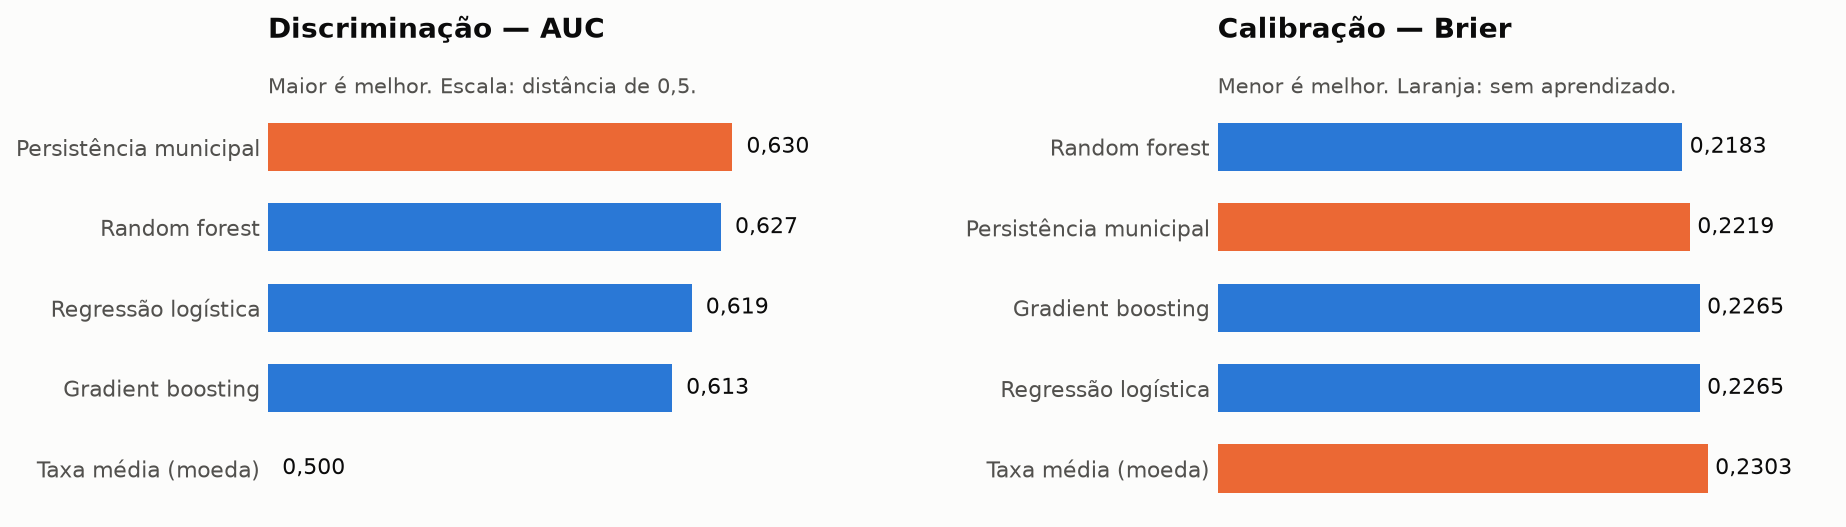
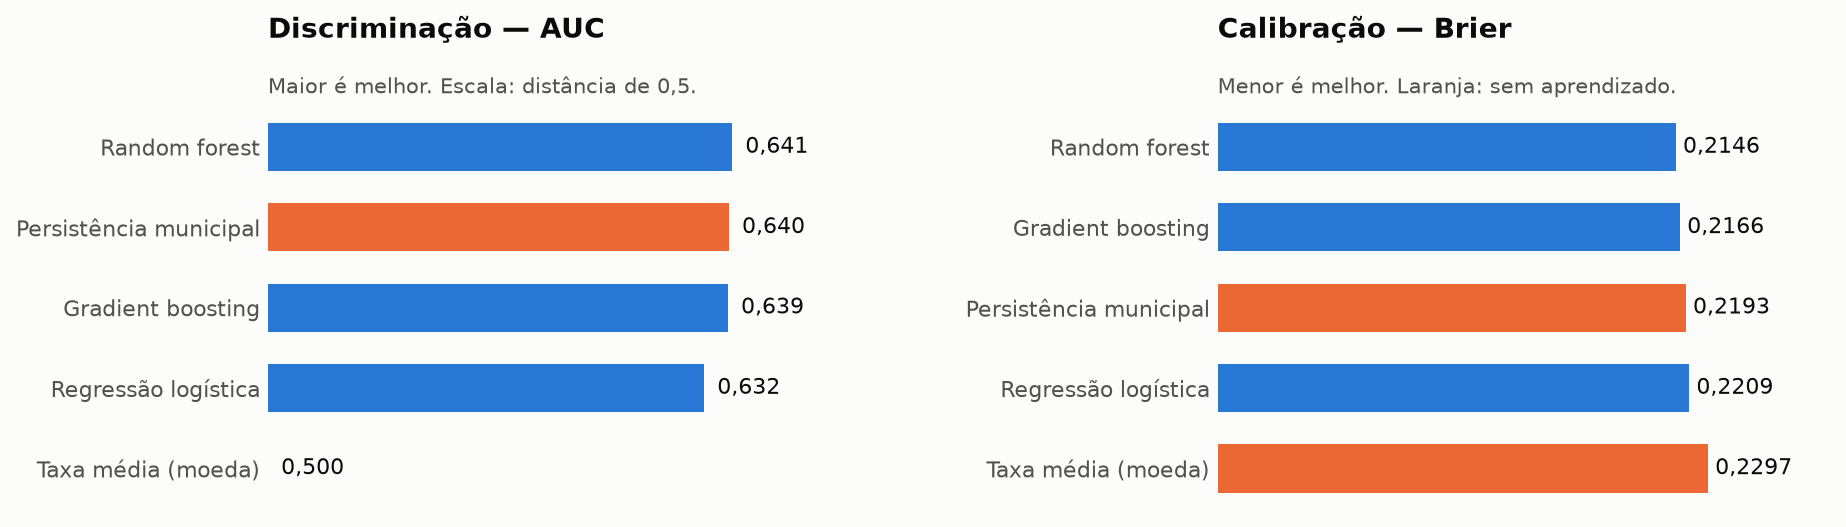
feat(modeling): acrescenta random forest, que passa a ser o melhor modelo
Floresta com 200 arvores, profundidade limitada a 18 e folha minima de 100. Usa
preprocessador proprio: imputacao e one-hot, sem padronizacao. Diferente do
boosting em histograma, a floresta nao trata nulo nativamente nem divide
categorica por conjunto, entao codigo ordinal imporia ordem falsa entre estados.

Escolhida por atacar o erro pelo caminho oposto ao do boosting — variancia em vez
de vies. Os dois chegarem ao mesmo patamar e evidencia de que o teto e dos dados.

Resultado: AUC 0,6407 contra 0,6397 da persistencia municipal. Tecnicamente o
melhor, mas ganhar um milesimo de um baseline que nao aprende nada confirma que
o aprendizado quase nao acrescenta discriminacao. O ganho real e em calibracao:
Brier de 0,2193 para 0,2146 e log loss de 0,6282 para 0,6170.

Trata tambem o SHAP da floresta, que devolve um eixo por classe.

diff --git a/README.md b/README.md
@@ -310,7 +310,12 @@ Dois modelos, e dois baselines que existem para dar sentido aos números.
 | **Taxa média** | O piso absoluto. AUC 0,5 por construção. |
 | **Persistência municipal** | Prevê, para cada aluno, a taxa do seu município no ano anterior. Não usa aprendizado nenhum — só uma coluna que já está na tabela. **É contra este que o modelo precisa ser comparado.** |
 | **Regressão logística** | Referência linear. Imputação por mediana, padronização e one-hot, tudo dentro do `Pipeline`. |
-| **Gradient boosting em histograma** | Trata valor faltante nativamente e divide categóricas por conjunto, sem supor ordem. Regularizado com L2 e parada antecipada. |
+| **Random forest** | 200 árvores fundas e independentes, depois a média. Ataca variância. Precisa de imputação e one-hot, não de escala. |
+| **Gradient boosting em histograma** | Árvores rasas encadeadas, cada uma corrigindo a anterior. Ataca viés. Trata valor faltante nativamente e divide categóricas por conjunto. |
+
+Floresta e boosting foram escolhidos por atacarem o erro por caminhos opostos —
+variância contra viés. Se os dois chegam ao mesmo patamar, é evidência de que o
+teto é dos dados, não do algoritmo.
 
 O pré-processamento está **dentro** do `Pipeline`, não antes dele. Isso não é
 estilo: um imputador ajustado fora aprenderia a mediana do conjunto inteiro,
@@ -343,32 +348,42 @@ conhecer um colega é quase conhecer a resposta.
 
 | modelo | AUC | Brier | log loss |
 |---|---:|---:|---:|
-| Persistência municipal | **0,6397** | 0,2193 | 0,6282 |
-| Gradient boosting | 0,6394 | **0,2166** | **0,6211** |
+| **Random forest** | **0,6407** | **0,2146** | **0,6170** |
+| Persistência municipal | 0,6397 | 0,2193 | 0,6282 |
+| Gradient boosting | 0,6394 | 0,2166 | 0,6211 |
 | Regressão logística | 0,6322 | 0,2209 | 0,6319 |
 | Taxa média | 0,5000 | 0,2297 | 0,6521 |
 
-**O modelo não supera a persistência territorial em discriminação.** Empata:
-0,6394 contra 0,6397. Em termos de ordenar alunos por risco, o gradient boosting
-não aprendeu nada além do que já estava na coluna "taxa do município no ano
-passado".
+**A floresta supera a persistência territorial — por 0,001 de AUC.** Tecnicamente
+é o melhor modelo; na prática, ganhar um milésimo de um baseline que não aprende
+nada significa que **o aprendizado de máquina quase não acrescenta discriminação
+aqui**. O boosting empata (0,6394) e a logística perde. Três algoritmos
+diferentes chegando ao mesmo patamar é o que se espera quando o limite é dos
+dados, não do método.
 
-**Onde ele ganha é em calibração.** Brier 0,2166 contra 0,2193 e log loss 0,6211
-contra 0,6282. As probabilidades do modelo são mais confiáveis, mesmo ordenando
-igual — o que importa se a saída alimentar uma decisão de alocação de recurso,
-e não apenas um ranking.
+**O ganho real é em calibração.** A floresta leva o Brier de 0,2193 para 0,2146
+e o log loss de 0,6282 para 0,6170 — uma melhora de 2,1% e 1,8% sobre a
+persistência, ordens de grandeza acima do ganho em AUC. As probabilidades são
+mais confiáveis mesmo ordenando quase igual, o que importa se a saída alimentar
+alocação de recurso em vez de só um ranking.
 
 **O custo de generalizar entre anos é visível:** dentro de 2024 a validação
-cruzada dá AUC 0,6688; em 2025 cai para 0,6394. Essa diferença de 0,03 é a
-distância entre prever o presente e prever o futuro, e só aparece porque a
-divisão é temporal. Uma divisão aleatória teria escondido.
+cruzada dá AUC entre 0,662 e 0,669 para os três modelos; em 2025 todos caem para
+a faixa de 0,632 a 0,641. Essa perda de cerca de 0,03 é a distância entre prever
+o presente e prever o futuro, e só aparece porque a divisão é temporal. Uma
+divisão aleatória a teria escondido.
 
-**A importância confirma o diagnóstico.** Por permutação, `mun_taxa_rede_t1`
-domina (queda de 0,064 no AUC ao ser embaralhada), seguida de longe por
-`sigla_uf` (0,017). Todo o resto fica abaixo de 0,003 — inclusive o INSE. O SHAP
-distribui um pouco mais o crédito (região, taxa da UF, porte da escola), mas a
-conclusão é a mesma: **o modelo é, essencialmente, um mapa de onde a criança
+**A importância confirma o diagnóstico.** Na floresta, `mun_taxa_rede_t1` lidera
+a permutação (0,0120), seguida de `mun_meta_ano` (0,0058) e
+`mun_taxa_publica_t1` (0,0041) — todas medidas do próprio território no passado.
+O SHAP ordena igual. O INSE e as taxas de rendimento aparecem, mas com
+contribuição marginal. **O modelo é, essencialmente, um mapa de onde a criança
 mora.**
+
+Vale notar o contraste entre os dois modelos de árvore: o boosting concentrou
+quase toda a importância numa variável (0,064 em `mun_taxa_rede_t1`), enquanto a
+floresta distribuiu (0,012 no topo). Mesma performance, leituras diferentes — a
+floresta é mais informativa para explicar o fenômeno.
 
 ## Insights encontrados
 

diff --git a/reports/MODELAGEM.md b/reports/MODELAGEM.md
@@ -1,33 +1,33 @@
 # Modelagem — predição de alfabetização no grão do aluno
 
-Treino em 2024 (59,647 alunos, 1,371 escolas), teste em 2025 (59,444 alunos). Divisão temporal, validação cruzada agrupada por escola, tudo ponderado pelo peso amostral.
+Treino em 2024 (1,851,852 alunos, 42,328 escolas), teste em 2025 (1,966,095 alunos). Divisão temporal, validação cruzada agrupada por escola, tudo ponderado pelo peso amostral.
 
 ## Resultados
 
 | modelo | auc_roc | precisao_media | brier | log_loss | taxa_base |
 |---|---:|---:|---:|---:|---:|
-| persistencia_municipal | 0,6302 | 0,7618 | 0,2219 | 0,6335 | 0,6553 |
-| floresta | 0,6270 | 0,7584 | 0,2183 | 0,6259 | 0,6553 |
-| logistica | 0,6188 | 0,7500 | 0,2265 | 0,6452 | 0,6553 |
-| boosting | 0,6133 | 0,7485 | 0,2265 | 0,6446 | 0,6553 |
-| taxa_base | 0,5000 | 0,6553 | 0,2303 | 0,6534 | 0,6553 |
+| floresta | 0,6407 | 0,7727 | 0,2146 | 0,6170 | 0,6565 |
+| persistencia_municipal | 0,6397 | 0,7724 | 0,2193 | 0,6282 | 0,6565 |
+| boosting | 0,6394 | 0,7709 | 0,2166 | 0,6211 | 0,6565 |
+| logistica | 0,6322 | 0,7631 | 0,2209 | 0,6319 | 0,6565 |
+| taxa_base | 0,5000 | 0,6565 | 0,2297 | 0,6521 | 0,6565 |
 
 ### Validação cruzada dentro do treino
 
 | modelo | AUC média | desvio entre folds |
 |---|---:|---:|
-| logistica | 0.6468 | 0.0069 |
-| floresta | 0.6532 | 0.0053 |
-| boosting | 0.6386 | 0.0045 |
+| logistica | 0.6620 | 0.0013 |
+| floresta | 0.6670 | 0.0011 |
+| boosting | 0.6688 | 0.0013 |
 
 ### Ganho sobre a persistência territorial
 
 O baseline que importa não é a moeda: é prever, para cada aluno, a taxa do seu município no ano anterior. Ele não usa aprendizado nenhum.
 
 - **taxa_base**: -100.0% de discriminação sobre a persistência
-- **logistica**: -8.8% de discriminação sobre a persistência
-- **floresta**: -2.5% de discriminação sobre a persistência
-- **boosting**: -13.0% de discriminação sobre a persistência
+- **logistica**: -5.4% de discriminação sobre a persistência
+- **floresta**: +0.7% de discriminação sobre a persistência
+- **boosting**: -0.2% de discriminação sobre a persistência
 
 ## Interpretabilidade
 
@@ -35,18 +35,35 @@ O baseline que importa não é a moeda: é prever, para cada aluno, a taxa do se
 
 | feature | queda_de_auc |
 |---|---:|
-| mun_taxa_rede_t1 | 0,0342 |
-| sigla_uf | 0,0150 |
-| mun_inse_alunos | 0,0041 |
-| mun_taxa_publica_t1 | 0,0040 |
-| longitude | 0,0019 |
-| mun_meta_ano | 0,0016 |
-| mun_abandono_iniciais_t1 | 0,0012 |
-| mun_aprovacao_1ano_t1 | 0,0009 |
-| mun_aprovacao_2ano_t1 | 0,0006 |
-| mun_inse_media | 0,0004 |
-| mun_alunos_avaliados | 0,0003 |
-| regiao | 0,0000 |
+| mun_taxa_rede_t1 | 0,0120 |
+| mun_meta_ano | 0,0058 |
+| mun_taxa_publica_t1 | 0,0041 |
+| mun_nivel_t1 | 0,0018 |
+| sigla_uf | 0,0013 |
+| latitude | 0,0010 |
+| mun_alunos_avaliados | 0,0010 |
+| mun_abandono_iniciais_t1 | 0,0010 |
+| mun_inse_alunos | 0,0009 |
+| mun_aprovacao_1ano_t1 | 0,0006 |
+| mun_aprovacao_2ano_t1 | 0,0005 |
+| longitude | 0,0004 |
+
+### SHAP (magnitude média)
+
+| feature | shap_medio |
+|---|---:|
+| numericas__mun_taxa_rede_t1 | 0,0282 |
+| numericas__mun_taxa_publica_t1 | 0,0178 |
+| numericas__mun_meta_ano | 0,0163 |
+| numericas__mun_nivel_t1 | 0,0122 |
+| numericas__uf_taxa_publica_t1 | 0,0100 |
+| numericas__uf_meta_ano | 0,0081 |
+| numericas__mun_aprovacao_1ano_t1 | 0,0076 |
+| categoricas__sigla_uf_MG | 0,0072 |
+| numericas__mun_abandono_iniciais_t1 | 0,0066 |
+| categoricas__regiao_Sudeste | 0,0059 |
+| categoricas__sigla_uf_RS | 0,0059 |
+| numericas__latitude | 0,0056 |
 
 **Features descartadas:** `mun_variacao_publica_t1`, `uf_variacao_publica_t1` — inteiramente nulas em 2024, porque a variação em t-1 exige t-2. Sob divisão temporal elas estariam presentes só no teste, e o modelo nunca teria visto um valor delas.
 ## Figuras
